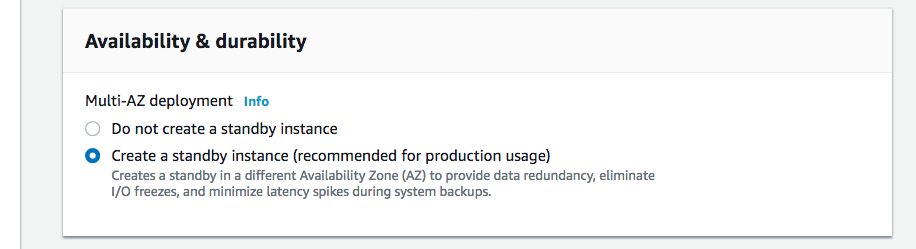
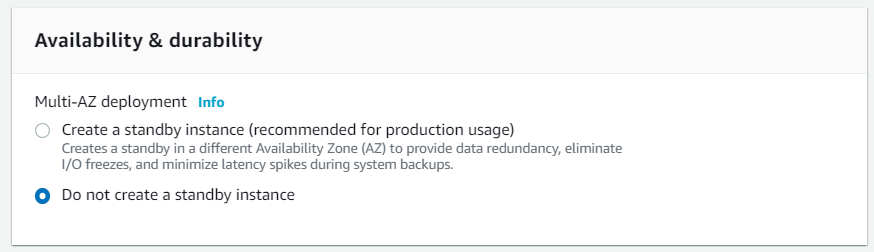
Minor changes to content and to README.md

Changed region(s): [[0.0, 0.0281, 1.0, 0.9839]]

diff --git a/workshop/content/optimization/_index.en.md b/workshop/content/optimization/_index.en.md
@@ -6,7 +6,7 @@ pre = "<b>4. </b>"
 +++
 
 
-Congratulation's, since you're here, you've managed to migrate (re-host the Webserver and re-platform the Database) an e-commerce application into AWS and can now look for ways to optimize the architecture to make it secure, highly-performant, and resilient so that is uses AWS infrastructure efficiently!
+Congratulation's, since you're here, you've managed to migrate (re-host the Webserver and re-platform the Database) an e-commerce application into AWS and can now look for ways to optimize the architecture to make it even more secure, highly-performant, resilient and so that is uses AWS infrastructure efficiently!
 
 Below you will find ideas about what you can do taking into account <a href="https://aws.amazon.com/architecture/well-architected/" target="_blank">5 AWS Well-Architected Pillars</a> - Operational Excellence, Security, Reliability, Performance Efficiency  and Cost Optimization.
 
@@ -18,7 +18,7 @@ Below you will find ideas about what you can do taking into account <a href="htt
 ### Security  
 - Switch to HTTPS with <a href="https://aws.amazon.com/certificate-manager/" target="_blank">AWS Certificate Manager</a> managed SSL/TLS certificates to encrypt customer data in transit (certificates are already provisioned in this workshop!)
 - <a href="https://docs.aws.amazon.com/AWSEC2/latest/UserGuide/EBSEncryption.html" target="_blank">Encrypt EBS volumes</a> to protect customer data at rest
-- Enable <a href="https://aws.amazon.com/waf/"  target="_blank">AWS Web Application Firewall (AWS WAF)</a> to protect your web application from known attacks (you can do it on <a href="https://aws.amazon.com/blogs/aws/aws-web-application-firewall-waf-for-application-load-balancers/" target="_blank">Application Load Balancer</a> or event better on the <a href="https://docs.aws.amazon.com/waf/latest/developerguide/cloudfront-features.html" target="_blank">Amazon CloudFront distribution</a>
+- Enable <a href="https://aws.amazon.com/waf/"  target="_blank">AWS Web Application Firewall (AWS WAF)</a> to protect your web application from known attacks (you can do it on <a href="https://aws.amazon.com/blogs/aws/aws-web-application-firewall-waf-for-application-load-balancers/" target="_blank">Application Load Balancer</a> or event better on the <a href="https://docs.aws.amazon.com/waf/latest/developerguide/cloudfront-features.html" target="_blank">Amazon CloudFront distribution</a>)
 - Use <a href="https://aws.amazon.com/guardduty/" target="_blank">Amazon GuardDuty</a> to protect your AWS account and workloads with intelligent threat detection and continuous monitoring
 
 ### Reliability
@@ -36,8 +36,8 @@ Below you will find ideas about what you can do taking into account <a href="htt
 
 ### Reference architecture
 
-Diagram below depicts the reference architecture of the solution, with all components listed above deployed.
+Diagram below depicts a reference architecture of the solution, with all components listed above deployed.
 
-![Ref-Architecture](/opt/aws-ref-arch.png)
+![Reference Architecture](/opt/aws-ref-arch.png)
 
 For more details see the <a href="https://github.com/aws-samples/aws-refarch-wordpress" target="_blank">Reference Architecture for Wordpress on AWS</a>!

diff --git a/workshop/content/database-migration/Create-target-DB.en.md b/workshop/content/database-migration/Create-target-DB.en.md
@@ -19,7 +19,7 @@ Before you configure **AWS DMS**, you will need to create your target database i
 
 
     {{% notice note %}}
-You can retrieve the information about the source MySQL version from the source database using SQL query - **SELECT@@version;**
+You can confirm the source MySQL version from the source database using SQL query - **SELECT@@version;**
 {{% /notice %}}
 
     In the **Settings** section, configure the DB instance identifier (e.g. database-1), Master username (e.g. admin) and Master password for your new database instance.
@@ -31,10 +31,14 @@ You can retrieve the information about the source MySQL version from the source 
 Make sure to write down **Master username** and **Master password**, as you will use it later.
 {{% /notice %}}
 
-    Select **db.t3.medium** from the standard DB instance class and leave the default values for Storage parameters.
+    Select **db.t3.medium** from the Burstable DB instance class and select **General Purpose (SSD)** for Storage Type.
     ![4_db](/db-mig/4_db.png)
 
-3. For the **Availability & durability**, leave the default value to create a standby instance (it's always safer to have a multi-AZ deployment).
+3. For the **Availability & durability**, switch to **Do not create a standby instance** to save costs. 
+
+    {{% notice note %}}
+For production workloads, we recommend enabling the standby instance to enable <a href="https://docs.aws.amazon.com/AmazonRDS/latest/UserGuide/Concepts.MultiAZ.html" target="_blank">Multi-AZ Deployment</a> for higher availability.
+{{% /notice %}}  
 
     ![5_db](/db-mig/5_db.png)
 
@@ -53,7 +57,7 @@ Note: You will edit this VPC security group later to make sure that the DMS Repl
 {{% /notice %}}
 
 5. For the **Database authentication**, choose **Password authentication**.
-6. In the **Additional configuration**, make sure to uncheck **Enable Enhanced monitoring** under the **Monitoring** section as indicated below:
+6. (AWS hosted events only) In the **Additional configuration**, make sure to uncheck **Enable Enhanced monitoring** under the **Monitoring** section as indicated below:
 
     ![6_2_db](/db-mig/6_2_db.png)
 
@@ -61,7 +65,7 @@ Note: You will edit this VPC security group later to make sure that the DMS Repl
     ![8_db](/db-mig/8_db.png)
 
     {{% notice note %}}
-Make sure to **Uncheck** the **Enable Enhanced monitoring**, otherwise you might get an error due to the role creation is not permitted in this Workshop.
+Using <a href="https://docs.aws.amazon.com/AmazonRDS/latest/UserGuide/USER_Monitoring.OS.html" target="_blank">Enhanced monitoring</a> is a very good idea for production workloads, during AWS hosted events we uncheck it because of limitations of IAM Role that was provisioned for attendees.
 {{% /notice %}}
 
 6. Finally, review the **Estimated monthly costs** and click the **Create database** button.

diff --git a/workshop/content/database-migration/setup_network.en.md b/workshop/content/database-migration/setup_network.en.md
@@ -41,10 +41,11 @@ One of the pre-requisites for using of **AWS DMS** is having configured a **subn
   There is no need to add any inbound rules to the **DMS Replication Instance** security group **RI-SG**
   {{% /notice %}}
 
-2. Add Inbound rule
+2. Add Inbound rule to **DB-SG** security group
 
     a. Go again to **AWS Console > Services > EC2 > Security Groups** screen click on the **Security Group ID** of Database Security Group **DB-SG** created earlier 
-
-    b. On the details of the **DB-SG** security group screen, press the **Edit inbound rules** button  
+    
+    b. On the details of the **DB-SG** security group screen, press the **Edit inbound rules** button
+      
     c. On the **Edit inbound rules** screen press the **Add rule** button and configure the rule to allow **inbound** traffic from the **DMS Replication Instance** security group on port 3306 and press **Save rules** button
     ![Adding inbound rule for reserved instance](/db-mig/security-group-inbound-rule.en.png)

diff --git a/README.md b/README.md
@@ -1,5 +1,10 @@
 **Application Migration Workshop**
 
+Self-paced activity that allows you to learn how to migrate applications to AWS cloud:
+- Re-hosting of webserver with [AWS CloudEndure Migration](https://aws.amazon.com/cloudendure-migration/)
+- Re-platforming of database with [AWS Database Migration Service](https://aws.amazon.com/dms/)
+- Modernization of webserver to containers running on [Amazon Elastic Container Service](https://aws.amazon.com/ecs/) 
+
 This repository includes:
  - **Application Migration Workshop** instructions deployed to https://application-migration-with-aws.workshop.aws/
  - **Application Migration Workshop** resources (in **./resources** folder) used to deploy the source environment (for the self-paced mode)   
